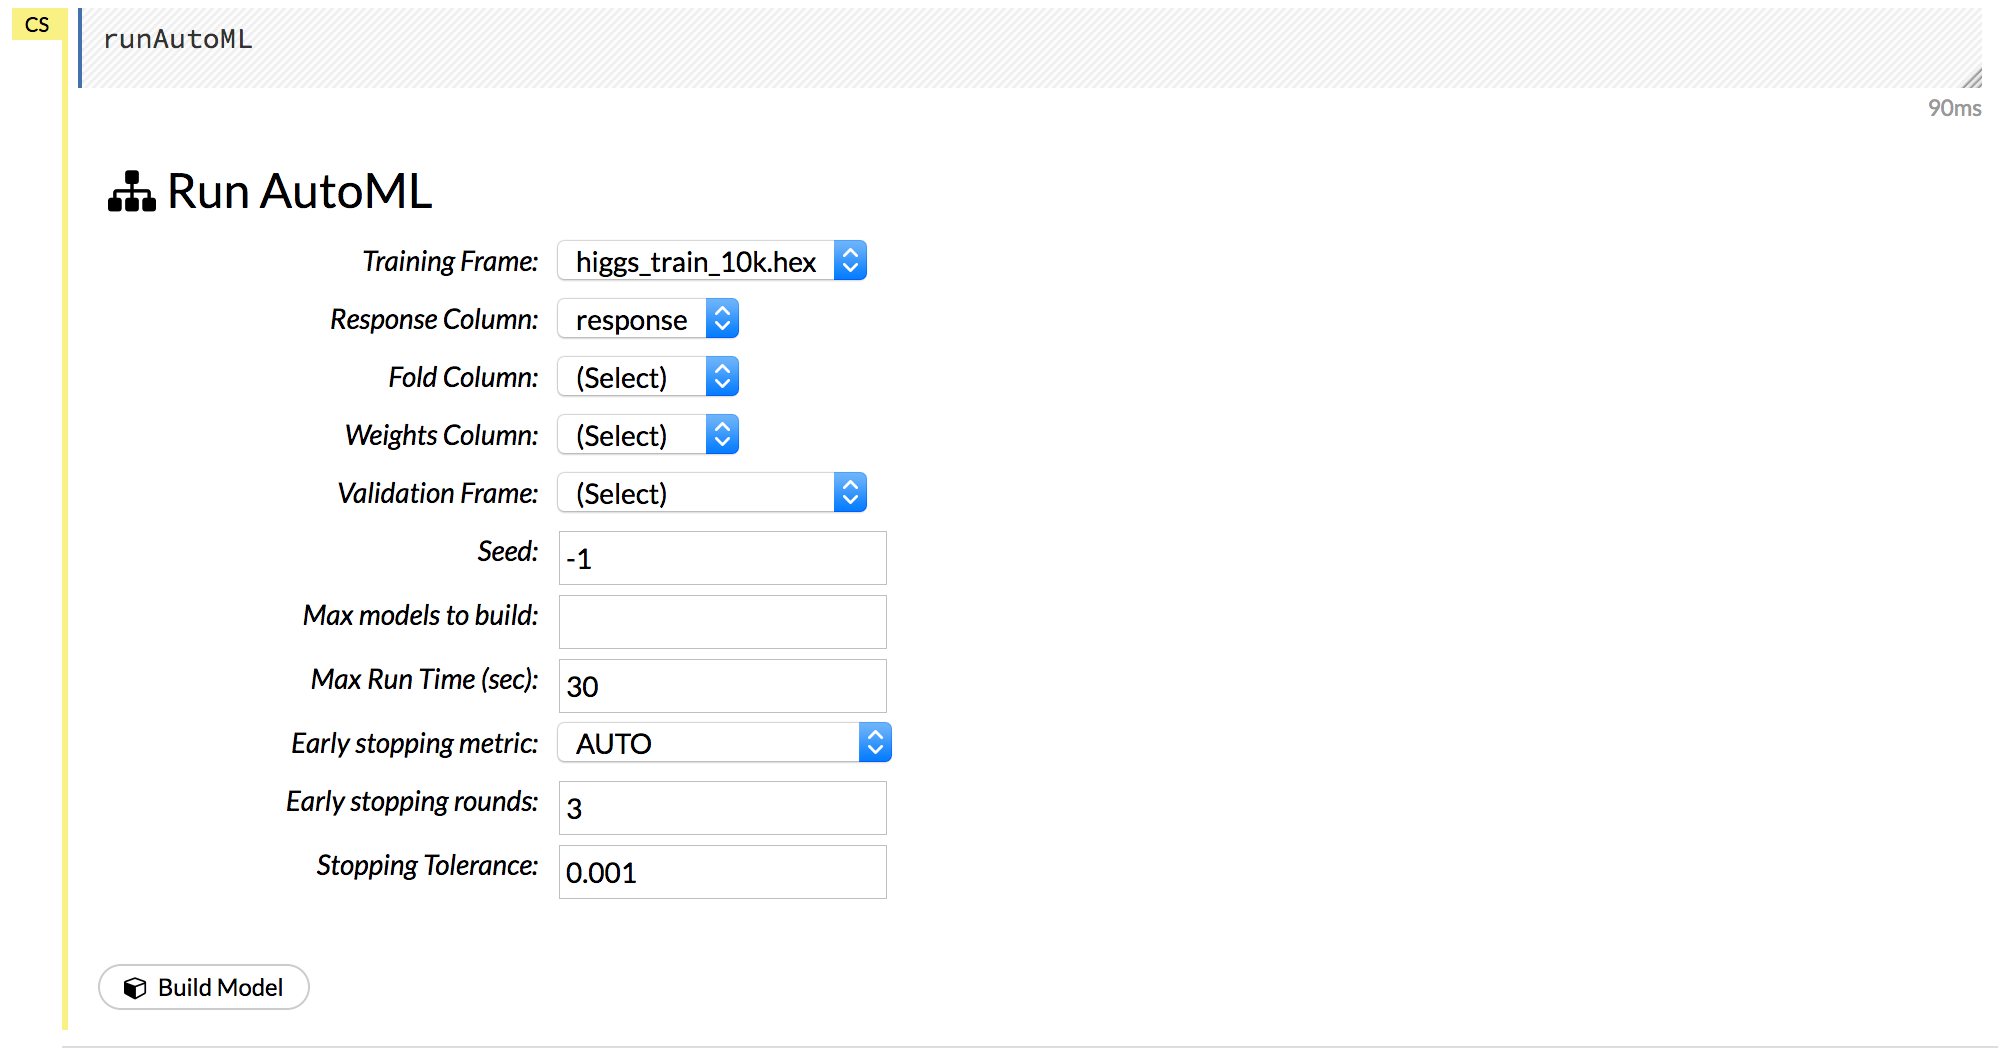
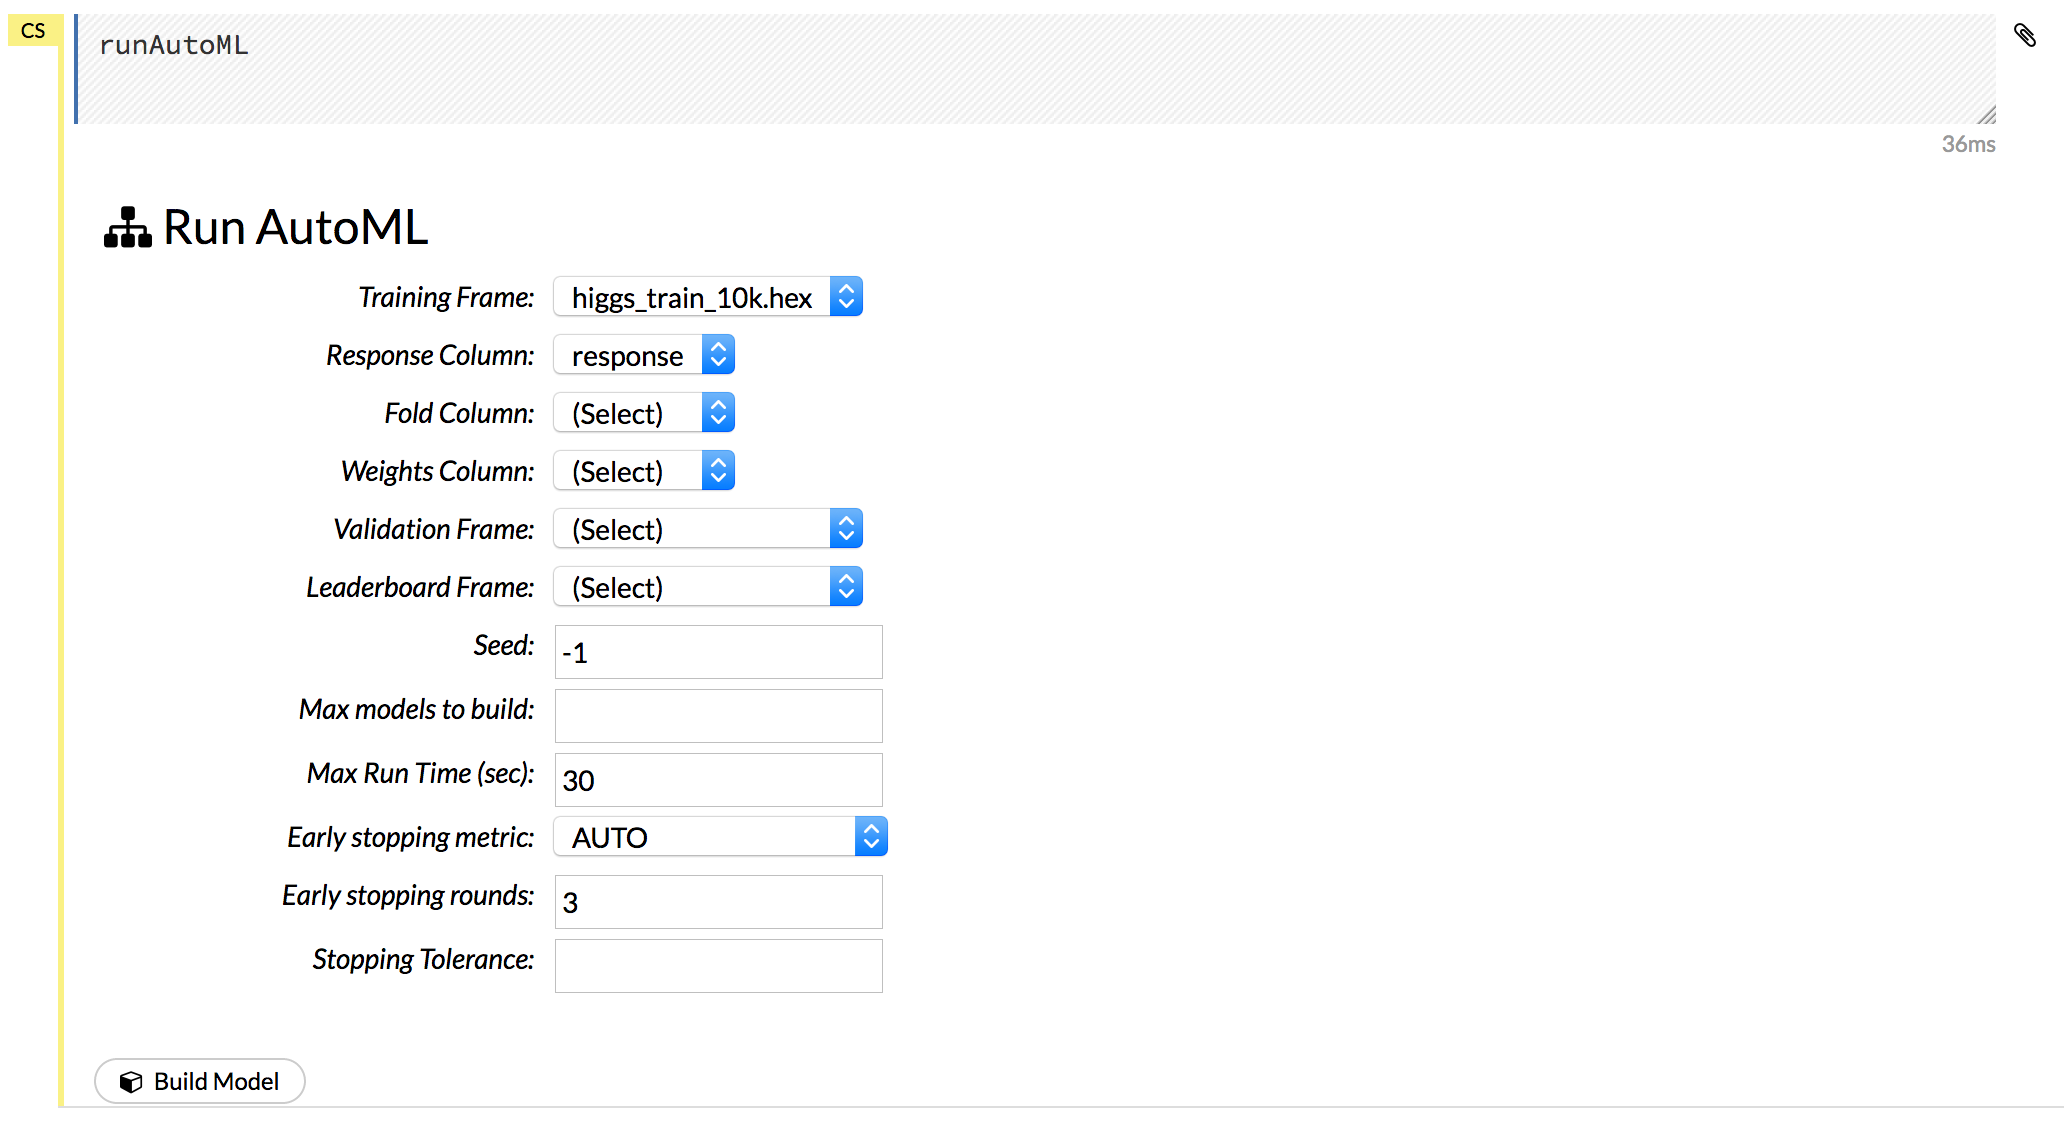
PUBDEV-4729: Added Leaderboard Frame in Flow documentation (#1435)
Added the Leaderboard Frame option and updated the screenshot in the
Flow > Run AutoML section of the User Guide.

diff --git a/h2o-docs/src/product/flow.rst b/h2o-docs/src/product/flow.rst
@@ -1164,7 +1164,11 @@ Exporting and Importing Models
 Run AutoML
 ^^^^^^^^^^
 
-AutoML automatically trains and tunes models while requiring as few parameters as possible. A user is only required to point to a dataset, identify the response column and optionally specify a time constraint, a maximum number of models constraint, and early stopping parameters. AutoML will then begin training models and will stop as specified in the configuration (i.e., when the maximum number of models has been reached, when the maximum run time has been reached, or when the stopping criteria are met). The outputted models will display on a leaderboard, showing the best results first. Stacked Ensembles will also be automatically trained on the collection of individual models to produce a highly predictive ensemble model which, in most cases, will be the top performing model in the AutoML leaderboard. Note that Stacked Ensembles are not yet available for multiclass classification problems, so in that case, only singleton models will be trained.
+AutoML automatically trains and tunes models while requiring as few parameters as possible. A user is only required to point to a dataset, identify the response column and optionally specify a time constraint, a maximum number of models constraint, and early stopping parameters. AutoML will then begin training models and will stop as specified in the configuration (i.e., when the maximum number of models has been reached, when the maximum run time has been reached, or when the stopping criteria are met). 
+
+Stacked Ensembles will also be automatically trained on the collection of individual models to produce a highly predictive ensemble model which, in most cases, will be the top performing model in the AutoML leaderboard. Note that Stacked Ensembles are not yet available for multiclass classification problems, so in that case, only singleton models will be trained.
+
+The outputted models will display on a leaderboard, showing the best results first. The Leaderboard Frame can be specified when configuring the AutoML run. The frame will not be used for anything besides creating the leaderboard. If a Leaderboard Frame is not specified, then one will be created from the Training Frame.
 
 To begin an AutoML run, select **Models > Run AutoML** from the top menu.
 
